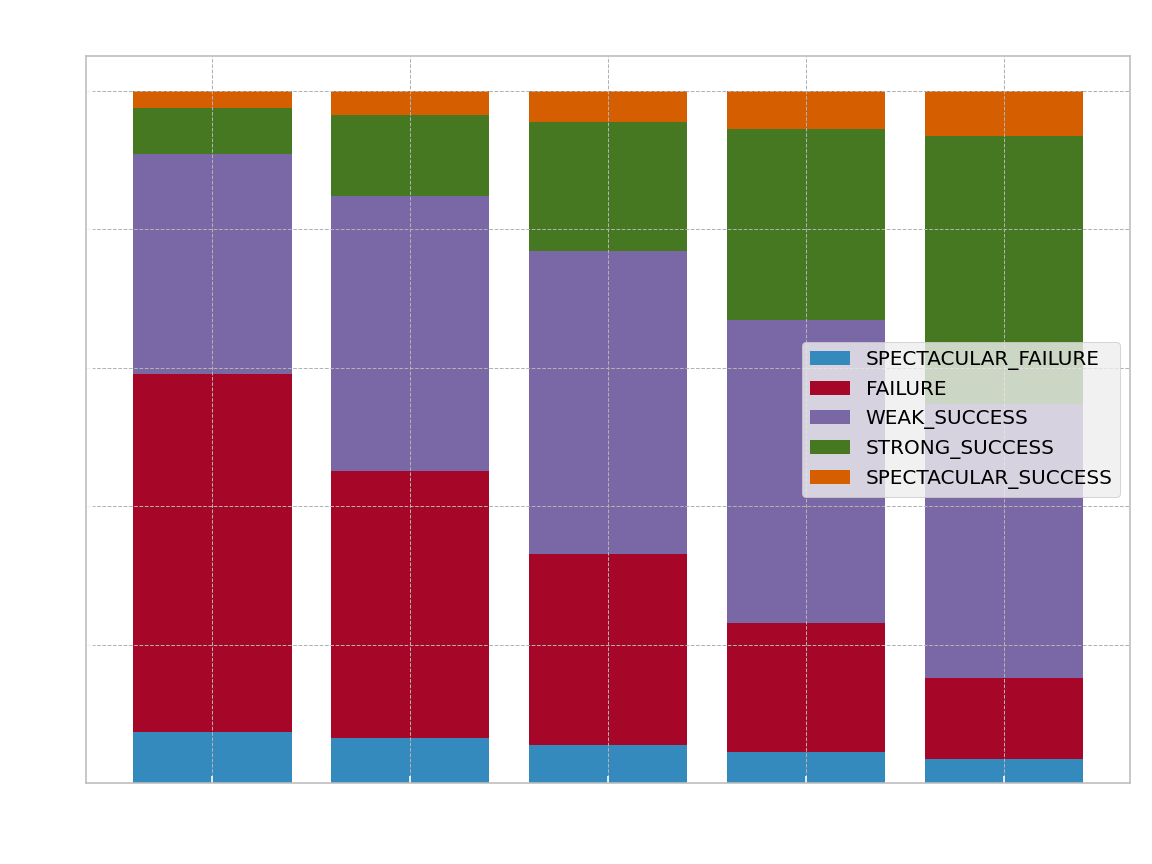
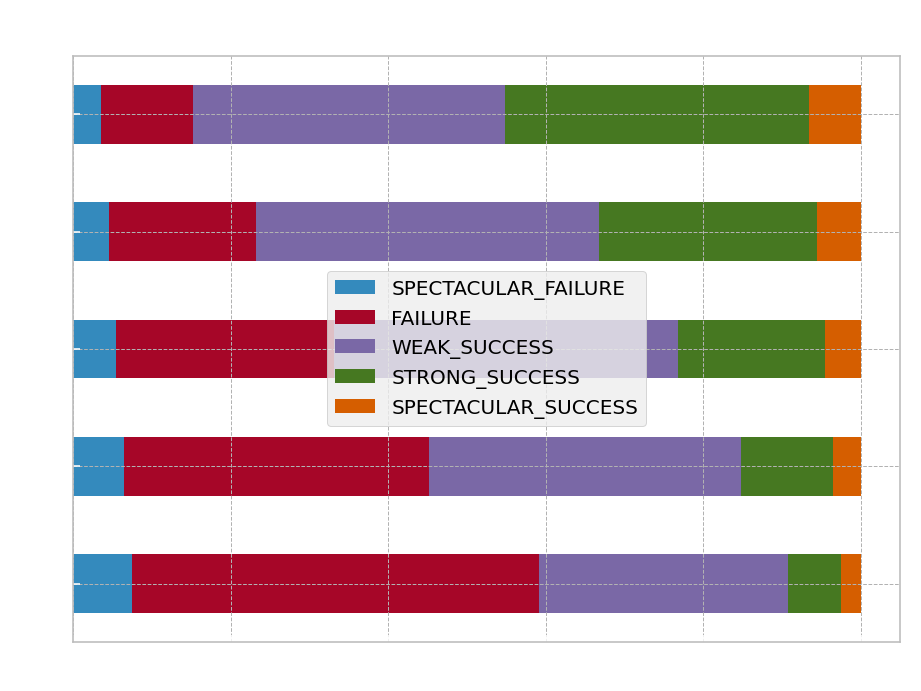
Use pandas for Ironsworn example

diff --git a/docs/assets/plot_ironsworn.py b/docs/assets/plot_ironsworn.py
@@ -8,7 +8,6 @@
 
 from __future__ import annotations
 
-from collections import defaultdict
 from enum import IntEnum, auto
 from functools import partial
 
@@ -26,6 +25,7 @@ class IronSoloResult(IntEnum):
 def do_it(style: str) -> None:
     import matplotlib.pyplot
     import matplotlib.ticker
+    import pandas
 
     d6 = H(6)
     d10 = H(10)
@@ -51,38 +51,33 @@ def do_it(style: str) -> None:
                 else IronSoloResult.FAILURE
             )
 
-    ax = matplotlib.pyplot.axes()
-    by_result = defaultdict(list)
     mods = list(range(0, 5))
+    df = pandas.DataFrame(columns=IronSoloResult)
+
+    for mod in mods:
+        results_for_mod = dict(
+            H.foreach(
+                partial(iron_solo_dependent_term, mod=mod),
+                action=d6,
+                first_challenge=d10,
+                second_challenge=d10,
+            ).distribution(rational_t=lambda n, d: n / d)
+        )
+        row = pandas.DataFrame(results_for_mod, columns=IronSoloResult, index=[mod])
+        df = pandas.concat((df, row))
+
+    df.index.name = "Modifier"
+    # DataFrames use enum's values for displaying column names, so we convert them to
+    # names
+    df = df.rename(columns={v: v.name for v in IronSoloResult})
+
+    ax = df.plot(kind="barh", stacked=True)
     text_color = "white" if style == "dark" else "black"
     ax.tick_params(axis="x", colors=text_color)
     ax.tick_params(axis="y", colors=text_color)
-    ax.yaxis.set_major_formatter(matplotlib.ticker.PercentFormatter(xmax=1))
+    ylabel = ax.get_ylabel()
+    ax.set_ylabel(ylabel, color=text_color)
 
-    for mod in mods:
-        results_for_mod = H.foreach(
-            partial(iron_solo_dependent_term, mod=mod),
-            action=d6,
-            first_challenge=d10,
-            second_challenge=d10,
-        )
-        distribution_for_mod = dict(results_for_mod.distribution())
-
-        for result in IronSoloResult:
-            result_val = float(distribution_for_mod.get(result, 0))
-            by_result[result].append(result_val)
-
-    labels = [str(mod) for mod in mods]
-    bottoms = [0.0 for _ in mods]
-
-    for result in IronSoloResult:
-        result_vals = by_result[result]
-        assert len(result_vals) == len(mods)
-        ax.bar(labels, result_vals, bottom=bottoms, label=result.name)
-        bottoms = [
-            bottom + result_val for bottom, result_val in zip(bottoms, result_vals)
-        ]
-
+    ax.xaxis.set_major_formatter(matplotlib.ticker.PercentFormatter(xmax=1))
     ax.legend()
-    ax.set_xlabel("Modifier", color=text_color)
     ax.set_title("Ironsworn distributions", color=text_color)

diff --git a/docs/translations.md b/docs/translations.md
@@ -179,6 +179,7 @@ We can also deploy a counting trick with the two d10s.
 >>> from typing import Iterator, Tuple, cast
 >>> d6 = H(6)
 >>> d10 = H(10)
+>>> mods = list(range(0, 5))
 
 >>> class IronResult(IntEnum):
 ...   FAILURE = 0
@@ -187,7 +188,7 @@ We can also deploy a counting trick with the two d10s.
 
 >>> iron_distributions_by_mod = {
 ...   mod: H.foreach(lambda action: 2@(d10.lt(action)), action=d6 + mod)
-...   for mod in range(5)
+...   for mod in mods
 ... }
 >>> for mod, iron_distribution in iron_distributions_by_mod.items():
 ...   print("{:+} -> {}".format(mod, {
@@ -269,21 +270,72 @@ The key to mapping that to ``dyce`` internals is recognizing that we have a depe
 ...   else:
 ...     return IronSoloResult.SPECTACULAR_FAILURE if doubles else IronSoloResult.FAILURE
 
->>> H.foreach(
-...   iron_solo_dependent_term,  # mod defaults to 0
-...   action=d6,
-...   first_challenge=d10,
-...   second_challenge=d10,
-... )
-H({<IronSoloResult.SPECTACULAR_FAILURE: -1>: 9,
- <IronSoloResult.FAILURE: 0>: 62,
- <IronSoloResult.WEAK_SUCCESS: 1>: 38,
- <IronSoloResult.STRONG_SUCCESS: 2>: 8,
- <IronSoloResult.SPECTACULAR_SUCCESS: 3>: 3})
-
 ```
 
 By defining our dependent term function to include ``#!python mod`` as a parameter with a default argument, we can use ``#!python partial`` to manipulate it, which is helpful for visualization.
+
+<table id="T_0f1c3">
+  <thead>
+    <tr>
+      <th class="blank level0" >&nbsp;</th>
+      <th id="T_0f1c3_level0_col0" class="col_heading level0 col0" >SPECTACULAR_FAILURE</th>
+      <th id="T_0f1c3_level0_col1" class="col_heading level0 col1" >FAILURE</th>
+      <th id="T_0f1c3_level0_col2" class="col_heading level0 col2" >WEAK_SUCCESS</th>
+      <th id="T_0f1c3_level0_col3" class="col_heading level0 col3" >STRONG_SUCCESS</th>
+      <th id="T_0f1c3_level0_col4" class="col_heading level0 col4" >SPECTACULAR_SUCCESS</th>
+    </tr>
+    <tr>
+      <th class="index_name level0" >Modifier</th>
+      <th class="blank col0" >&nbsp;</th>
+      <th class="blank col1" >&nbsp;</th>
+      <th class="blank col2" >&nbsp;</th>
+      <th class="blank col3" >&nbsp;</th>
+      <th class="blank col4" >&nbsp;</th>
+    </tr>
+  </thead>
+  <tbody>
+    <tr>
+      <th id="T_0f1c3_level0_row0" class="row_heading level0 row0" >0</th>
+      <td id="T_0f1c3_row0_col0" class="data row0 col0" >7.50%</td>
+      <td id="T_0f1c3_row0_col1" class="data row0 col1" >51.67%</td>
+      <td id="T_0f1c3_row0_col2" class="data row0 col2" >31.67%</td>
+      <td id="T_0f1c3_row0_col3" class="data row0 col3" >6.67%</td>
+      <td id="T_0f1c3_row0_col4" class="data row0 col4" >2.50%</td>
+    </tr>
+    <tr>
+      <th id="T_0f1c3_level0_row1" class="row_heading level0 row1" >1</th>
+      <td id="T_0f1c3_row1_col0" class="data row1 col0" >6.50%</td>
+      <td id="T_0f1c3_row1_col1" class="data row1 col1" >38.67%</td>
+      <td id="T_0f1c3_row1_col2" class="data row1 col2" >39.67%</td>
+      <td id="T_0f1c3_row1_col3" class="data row1 col3" >11.67%</td>
+      <td id="T_0f1c3_row1_col4" class="data row1 col4" >3.50%</td>
+    </tr>
+    <tr>
+      <th id="T_0f1c3_level0_row2" class="row_heading level0 row2" >2</th>
+      <td id="T_0f1c3_row2_col0" class="data row2 col0" >5.50%</td>
+      <td id="T_0f1c3_row2_col1" class="data row2 col1" >27.67%</td>
+      <td id="T_0f1c3_row2_col2" class="data row2 col2" >43.67%</td>
+      <td id="T_0f1c3_row2_col3" class="data row2 col3" >18.67%</td>
+      <td id="T_0f1c3_row2_col4" class="data row2 col4" >4.50%</td>
+    </tr>
+    <tr>
+      <th id="T_0f1c3_level0_row3" class="row_heading level0 row3" >3</th>
+      <td id="T_0f1c3_row3_col0" class="data row3 col0" >4.50%</td>
+      <td id="T_0f1c3_row3_col1" class="data row3 col1" >18.67%</td>
+      <td id="T_0f1c3_row3_col2" class="data row3 col2" >43.67%</td>
+      <td id="T_0f1c3_row3_col3" class="data row3 col3" >27.67%</td>
+      <td id="T_0f1c3_row3_col4" class="data row3 col4" >5.50%</td>
+    </tr>
+    <tr>
+      <th id="T_0f1c3_level0_row4" class="row_heading level0 row4" >4</th>
+      <td id="T_0f1c3_row4_col0" class="data row4 col0" >3.50%</td>
+      <td id="T_0f1c3_row4_col1" class="data row4 col1" >11.67%</td>
+      <td id="T_0f1c3_row4_col2" class="data row4 col2" >39.67%</td>
+      <td id="T_0f1c3_row4_col3" class="data row4 col3" >38.67%</td>
+      <td id="T_0f1c3_row4_col4" class="data row4 col4" >6.50%</td>
+    </tr>
+  </tbody>
+</table>
 
 <!-- Should match any title of the corresponding plot title -->
 <picture>
